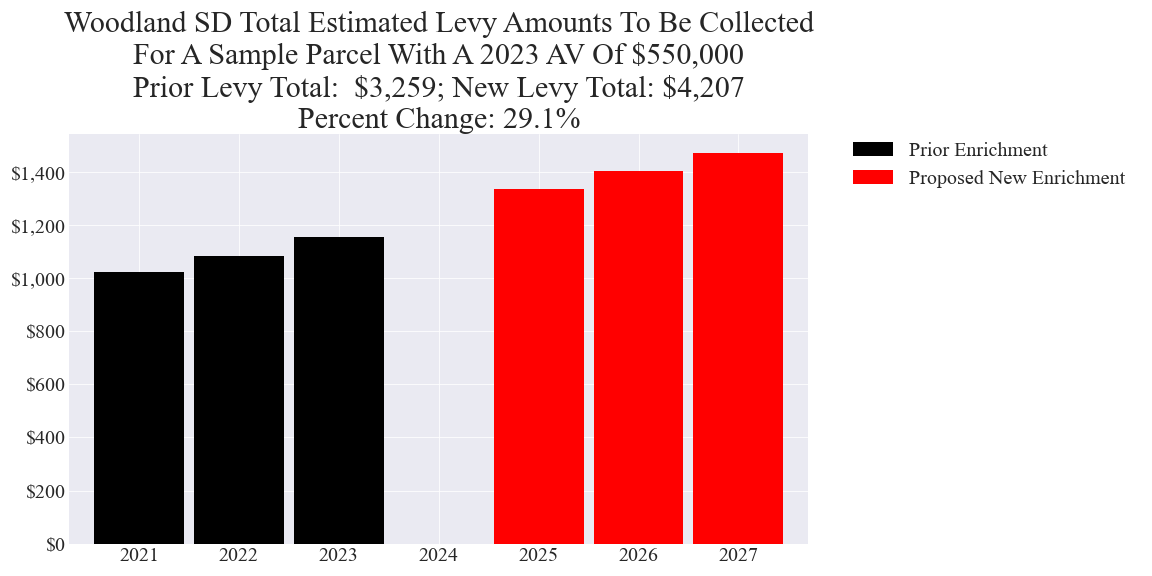
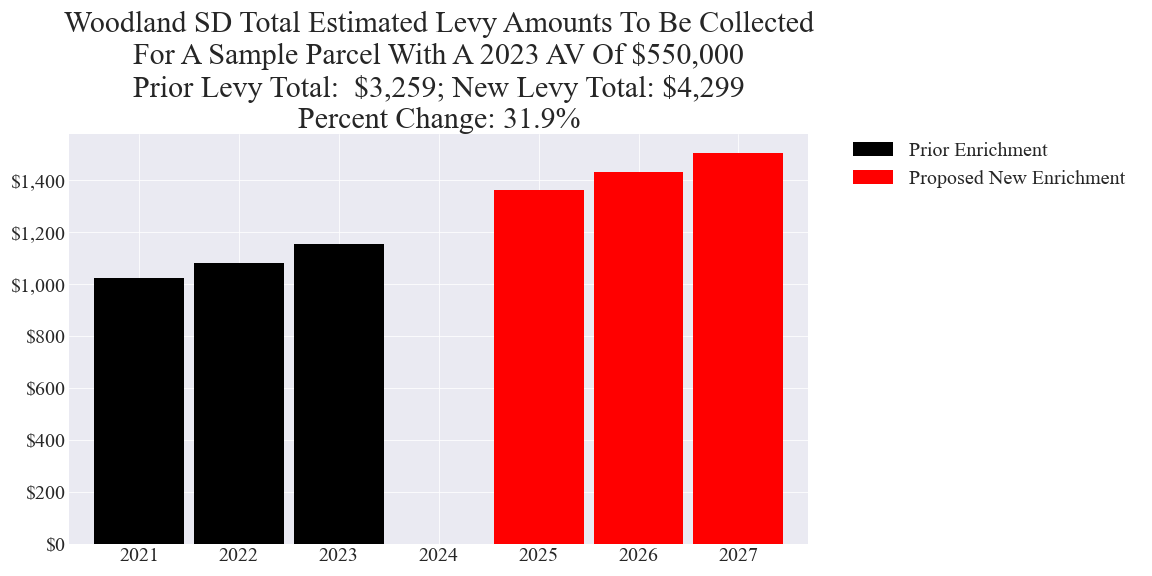
Updated Woodland

diff --git a/_includes/cost_estimates/20240213/Woodland_Enrichment_20240213_Enhanced.html b/_includes/cost_estimates/20240213/Woodland_Enrichment_20240213_Enhanced.html
@@ -14,7 +14,7 @@
 	sampleParcelAV = 550000;
 	sampleParcelAVMin = 100000;
 	sampleParcelAVMax = 2000000;
-	totalLevyCost = 21750000;
+	totalLevyCost = 22225000;
 	sampleParcelPOF = sampleParcelAV / totalLevyAV;
 	totalLevyCostParcel = sampleParcelPOF * totalLevyCost;
 	levyYears = 3;
@@ -33,9 +33,9 @@
 		data.addColumn('number', 'New Levy Amount');
 
 		data.addRows([
-			['2025', 6900000],
-			['2026', 7250000],
-			['2027', 7600000],
+			['2025', 7050000],
+			['2026', 7400000],
+			['2027', 7775000],
 
 		]);
 
